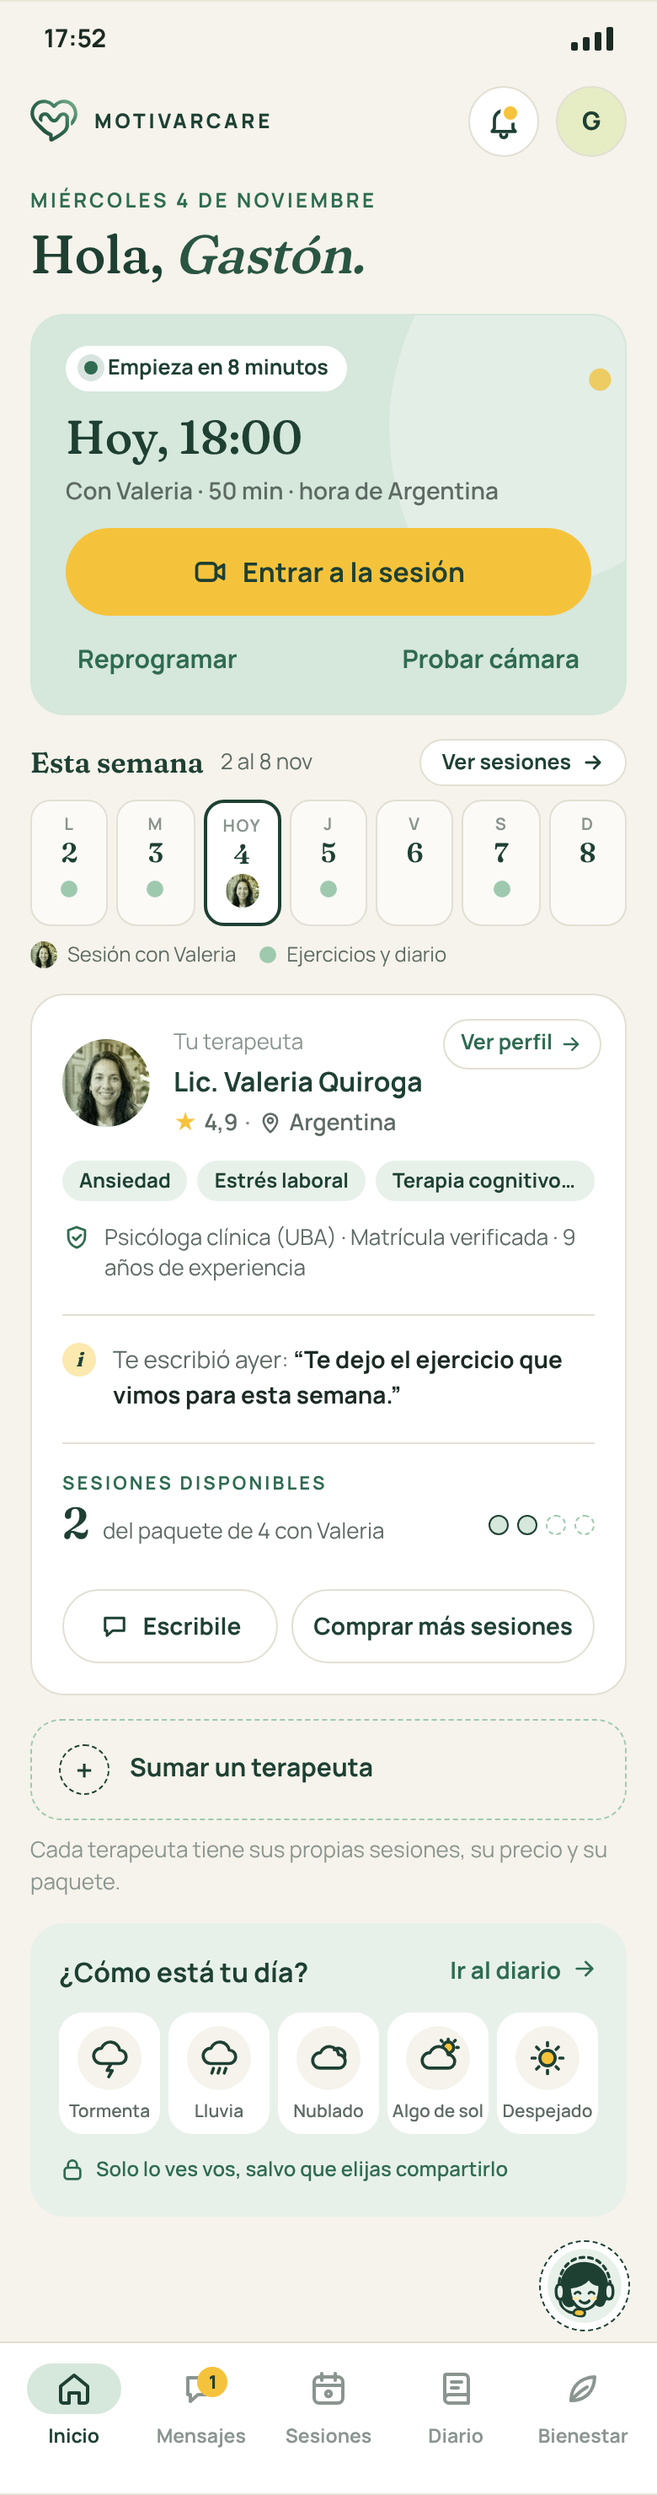
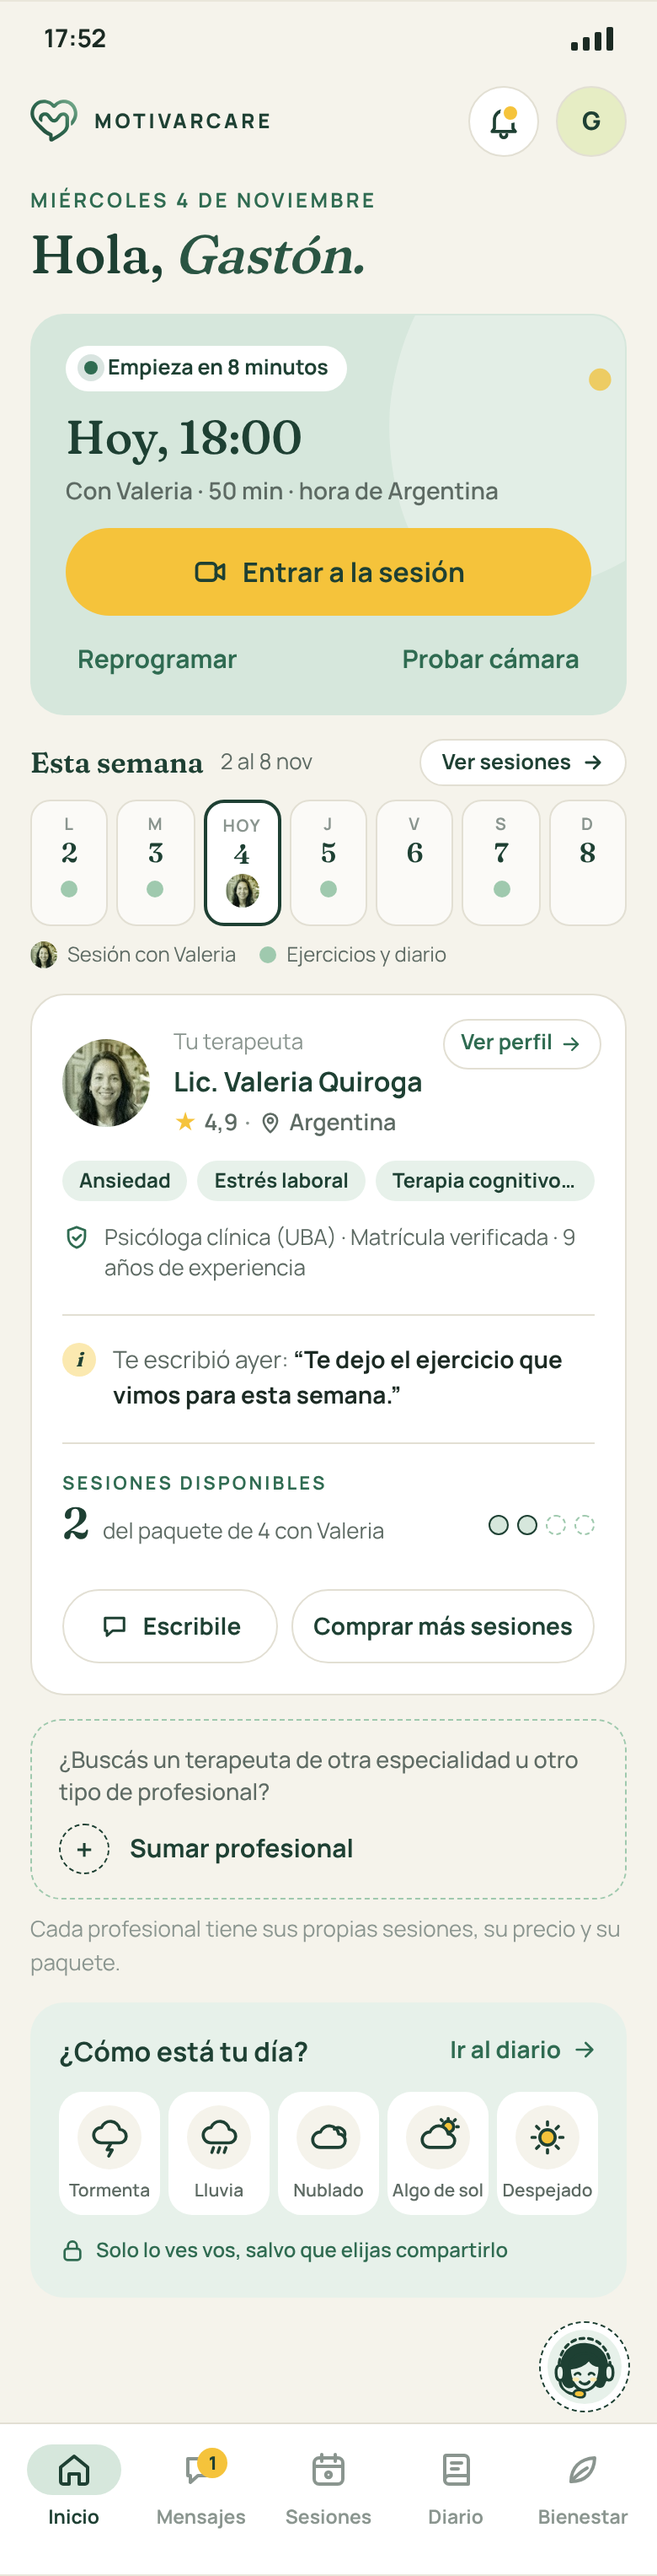
App del usuario: avisos simples en las pastillas y "Sumar profesional"
En el mockup 4, cada pastilla de terapeuta muestra el ícono de sesión con
la cantidad de sesiones futuras reservadas y el ícono del chat con los
mensajes sin leer (Valeria: 1 y 1; Andrés: 1 sesión; Tomás: 1 mensaje).
En los mockups 1, 2 y 4, el recuadro punteado pregunta si busca un
terapeuta de otra especialidad u otro profesional y ofrece "Sumar
profesional".

Claude-Session: https://claude.ai/code/session_01WU1DRuLLvKJwMVuiPWLics

diff --git a/web/public/app-usuario/ronda-2.html b/web/public/app-usuario/ronda-2.html
@@ -551,6 +551,12 @@ ul.lista-simple { padding: 0; }
 .sumar-terapeuta .mas { width: 30px; height: 30px; border-radius: 50%; border: 1.5px dashed var(--bosque); display: grid; place-items: center; font-size: 18px; font-weight: 600; line-height: 1; }
 .sumar-terapeuta p { font-size: 13px; color: var(--tinta-tenue); margin-top: 8px; }
 .tel-sumar .sumar { padding: 14px 16px; }
+
+/* Sumar profesional: pregunta y acción dentro del recuadro punteado */
+.sumar-terapeuta .sumar { flex-direction: column; align-items: flex-start; gap: 10px; }
+.sumar-terapeuta .sumar .pregunta { font-size: 13.5px; font-weight: 500; color: var(--tinta-suave); margin: 0; line-height: 1.4; }
+.sumar-terapeuta .accion { display: inline-flex; align-items: center; gap: 12px; font-weight: 700; font-size: 15px; color: var(--bosque); text-decoration: none; }
+.tab-pro .aviso + .aviso { margin-left: -4px; }
 </style>
 </head>
 <body>
@@ -667,8 +673,11 @@ ul.lista-simple { padding: 0; }
           <div class="botones"><a class="boton contorno"><svg class="ico chico"><use href="#i-chat"/></svg>Escribile</a><a class="boton contorno">Comprar más sesiones</a></div>
         </article>
           <div class="sumar-terapeuta">
-            <a class="sumar"><span class="mas">+</span>Sumar un terapeuta</a>
-            <p>Cada terapeuta tiene sus propias sesiones, su precio y su paquete.</p>
+            <div class="sumar">
+              <p class="pregunta">¿Buscás un terapeuta de otra especialidad u otro tipo de profesional?</p>
+              <a class="accion"><span class="mas">+</span>Sumar profesional</a>
+            </div>
+            <p>Cada profesional tiene sus propias sesiones, su precio y su paquete.</p>
           </div>
         </div>
       </div>
@@ -720,8 +729,11 @@ ul.lista-simple { padding: 0; }
       <div class="botones"><a class="boton contorno"><svg class="ico chico"><use href="#i-chat"/></svg>Escribile</a><a class="boton contorno">Comprar más sesiones</a></div>
     </article>
     <div class="sumar-terapeuta tel-sumar">
-            <a class="sumar"><span class="mas">+</span>Sumar un terapeuta</a>
-            <p>Cada terapeuta tiene sus propias sesiones, su precio y su paquete.</p>
+            <div class="sumar">
+              <p class="pregunta">¿Buscás un terapeuta de otra especialidad u otro tipo de profesional?</p>
+              <a class="accion"><span class="mas">+</span>Sumar profesional</a>
+            </div>
+            <p>Cada profesional tiene sus propias sesiones, su precio y su paquete.</p>
           </div>
     <article class="tarjeta menta clima" style="gap:12px">
             <div class="cab-clima"><div><b>¿Cómo está tu día?</b></div><a class="enlace">Ir al diario<svg class="ico"><use href="#i-flecha"/></svg></a></div>
@@ -822,8 +834,11 @@ ul.lista-simple { padding: 0; }
           <div class="botones"><a class="boton contorno"><svg class="ico chico"><use href="#i-chat"/></svg>Escribile</a><a class="boton contorno">Comprar más sesiones</a></div>
         </article>
           <div class="sumar-terapeuta">
-            <a class="sumar"><span class="mas">+</span>Sumar un terapeuta</a>
-            <p>Cada terapeuta tiene sus propias sesiones, su precio y su paquete.</p>
+            <div class="sumar">
+              <p class="pregunta">¿Buscás un terapeuta de otra especialidad u otro tipo de profesional?</p>
+              <a class="accion"><span class="mas">+</span>Sumar profesional</a>
+            </div>
+            <p>Cada profesional tiene sus propias sesiones, su precio y su paquete.</p>
           </div>
         </div>
       </div>
@@ -879,8 +894,11 @@ ul.lista-simple { padding: 0; }
       <div class="botones"><a class="boton contorno"><svg class="ico chico"><use href="#i-chat"/></svg>Escribile</a><a class="boton contorno">Comprar más sesiones</a></div>
     </article>
     <div class="sumar-terapeuta tel-sumar">
-            <a class="sumar"><span class="mas">+</span>Sumar un terapeuta</a>
-            <p>Cada terapeuta tiene sus propias sesiones, su precio y su paquete.</p>
+            <div class="sumar">
+              <p class="pregunta">¿Buscás un terapeuta de otra especialidad u otro tipo de profesional?</p>
+              <a class="accion"><span class="mas">+</span>Sumar profesional</a>
+            </div>
+            <p>Cada profesional tiene sus propias sesiones, su precio y su paquete.</p>
           </div>
     <article class="tarjeta menta clima" style="gap:12px">
             <div class="cab-clima"><div><b>¿Cómo está tu día?</b></div><a class="enlace">Ir al diario<svg class="ico"><use href="#i-flecha"/></svg></a></div>
@@ -1141,9 +1159,9 @@ ul.lista-simple { padding: 0; }
           <div class="selector-pro">
             <span class="et-sel">Tus terapeutas · 3</span>
             <div class="tabs-pro">
-              <span class="tab-pro activo"><img src="../landing/img/profesionales/valeria-quiroga.jpg" alt=""><span>Valeria</span></span>
-              <span class="tab-pro"><img src="../landing/img/profesionales/andres-salvatierra.jpg" alt=""><span>Andrés</span><span class="aviso ses" title="Sesión el viernes a las 10:00"><svg class="ico"><use href="#i-sesiones"/></svg>Vie 10:00</span></span>
-              <span class="tab-pro"><img src="../landing/img/profesionales/tomas-benitez.jpg" alt=""><span>Tomás</span><span class="aviso msj" title="Mensaje sin leer"><svg class="ico"><use href="#i-chat"/></svg>1</span></span>
+              <span class="tab-pro activo"><img src="../landing/img/profesionales/valeria-quiroga.jpg" alt=""><span>Valeria</span><span class="aviso ses" title="1 sesión reservada"><svg class="ico"><use href="#i-sesiones"/></svg>1</span><span class="aviso msj" title="1 mensaje sin leer"><svg class="ico"><use href="#i-chat"/></svg>1</span></span>
+              <span class="tab-pro"><img src="../landing/img/profesionales/andres-salvatierra.jpg" alt=""><span>Andrés</span><span class="aviso ses" title="1 sesión reservada"><svg class="ico"><use href="#i-sesiones"/></svg>1</span></span>
+              <span class="tab-pro"><img src="../landing/img/profesionales/tomas-benitez.jpg" alt=""><span>Tomás</span><span class="aviso msj" title="1 mensaje sin leer"><svg class="ico"><use href="#i-chat"/></svg>1</span></span>
             </div>
           </div>
           <div class="pro2-cab"><a class="ver-perfil">Ver perfil<svg class="ico"><use href="#i-flecha"/></svg></a>
@@ -1161,8 +1179,11 @@ ul.lista-simple { padding: 0; }
           <div class="botones"><a class="boton contorno"><svg class="ico chico"><use href="#i-chat"/></svg>Escribile</a><a class="boton contorno">Comprar más sesiones</a></div>
         </article>
           <div class="sumar-terapeuta">
-            <a class="sumar"><span class="mas">+</span>Sumar un terapeuta</a>
-            <p>Cada terapeuta tiene sus propias sesiones, su precio y su paquete.</p>
+            <div class="sumar">
+              <p class="pregunta">¿Buscás un terapeuta de otra especialidad u otro tipo de profesional?</p>
+              <a class="accion"><span class="mas">+</span>Sumar profesional</a>
+            </div>
+            <p>Cada profesional tiene sus propias sesiones, su precio y su paquete.</p>
           </div>
         </div>
       </div>
@@ -1202,9 +1223,9 @@ ul.lista-simple { padding: 0; }
       <div class="selector-pro">
             <span class="et-sel">Tus terapeutas · 3</span>
             <div class="tabs-pro">
-              <span class="tab-pro activo"><img src="../landing/img/profesionales/valeria-quiroga.jpg" alt=""><span>Valeria</span></span>
-              <span class="tab-pro"><img src="../landing/img/profesionales/andres-salvatierra.jpg" alt=""><span>Andrés</span><span class="aviso ses" title="Sesión el viernes a las 10:00"><svg class="ico"><use href="#i-sesiones"/></svg>Vie 10:00</span></span>
-              <span class="tab-pro"><img src="../landing/img/profesionales/tomas-benitez.jpg" alt=""><span>Tomás</span><span class="aviso msj" title="Mensaje sin leer"><svg class="ico"><use href="#i-chat"/></svg>1</span></span>
+              <span class="tab-pro activo"><img src="../landing/img/profesionales/valeria-quiroga.jpg" alt=""><span>Valeria</span><span class="aviso ses" title="1 sesión reservada"><svg class="ico"><use href="#i-sesiones"/></svg>1</span><span class="aviso msj" title="1 mensaje sin leer"><svg class="ico"><use href="#i-chat"/></svg>1</span></span>
+              <span class="tab-pro"><img src="../landing/img/profesionales/andres-salvatierra.jpg" alt=""><span>Andrés</span><span class="aviso ses" title="1 sesión reservada"><svg class="ico"><use href="#i-sesiones"/></svg>1</span></span>
+              <span class="tab-pro"><img src="../landing/img/profesionales/tomas-benitez.jpg" alt=""><span>Tomás</span><span class="aviso msj" title="1 mensaje sin leer"><svg class="ico"><use href="#i-chat"/></svg>1</span></span>
             </div>
           </div>
       <div class="pro2-cab"><a class="ver-perfil">Ver perfil<svg class="ico"><use href="#i-flecha"/></svg></a>
@@ -1222,8 +1243,11 @@ ul.lista-simple { padding: 0; }
       <div class="botones"><a class="boton contorno"><svg class="ico chico"><use href="#i-chat"/></svg>Escribile</a><a class="boton contorno">Comprar más sesiones</a></div>
     </article>
     <div class="sumar-terapeuta tel-sumar">
-            <a class="sumar"><span class="mas">+</span>Sumar un terapeuta</a>
-            <p>Cada terapeuta tiene sus propias sesiones, su precio y su paquete.</p>
+            <div class="sumar">
+              <p class="pregunta">¿Buscás un terapeuta de otra especialidad u otro tipo de profesional?</p>
+              <a class="accion"><span class="mas">+</span>Sumar profesional</a>
+            </div>
+            <p>Cada profesional tiene sus propias sesiones, su precio y su paquete.</p>
           </div>
     <article class="tarjeta menta clima" style="gap:12px">
             <div class="cab-clima"><div><b>¿Cómo está tu día?</b></div><a class="enlace">Ir al diario<svg class="ico"><use href="#i-flecha"/></svg></a></div>

diff --git a/06-app-usuario/historial/ronda-2.md b/06-app-usuario/historial/ronda-2.md
@@ -81,8 +81,8 @@ Cada mockup se hace en escritorio (1440 × 1024) y en teléfono (390 de ancho). 
     <ul>
       <li>La tarjeta verde muestra la sesión más próxima, sea con quien sea.</li>
       <li>La agenda de la semana reúne las sesiones con todos, cada profesional con su foto y su color.</li>
-      <li>La tarjeta de la derecha suma un selector con la foto de cada terapeuta: primero el principal, y avisos de sesión próxima o mensaje en los demás.</li>
-      <li>Debajo, "Sumar un terapeuta".</li>
+      <li>La tarjeta de la derecha suma un selector con la foto de cada terapeuta: primero el principal, cada uno con sus sesiones reservadas y sus mensajes sin leer.</li>
+      <li>Debajo, "Sumar profesional".</li>
     </ul>
     <a class="boton-ver" href="/app-usuario/ronda-2.html#r2-4-escritorio">Ver en tamaño real →</a>
   </div>
@@ -170,7 +170,7 @@ Combina la familia 2 (la agenda y la sesión mandan) con la posibilidad de traba
 - **Saludo:** "Esta semana tenés 3 sesiones con 3 terapeutas. La próxima, con Valeria, empieza en unos minutos."
 - **Tarjeta verde:** la sesión más próxima, sea con quien sea. Es igual a la del mockup 1, con el nombre del profesional de esa sesión.
 - **Agenda de la semana:** reúne las sesiones con todos los profesionales, cada uno con su foto y un color propio (salvia para Valeria, lima para Andrés y amarillo suave para Tomás, los colores categóricos del design system). En el teléfono, cada día lleva la foto del profesional con quien hay sesión.
-- **Tarjeta del terapeuta con selector:** arriba, "Tus terapeutas · 3" y una pastilla con la foto y el nombre de cada uno. **El terapeuta principal va siempre primero** y es el que se abre por defecto; después van los demás. Se ve uno por vez, con los mismos datos y el mismo orden que en el mockup 1. Si otro terapeuta tiene una sesión próxima o dejó un mensaje sin leer, su pastilla lo avisa: "Vie 10:00" con el ícono del calendario (Andrés) o el ícono del chat con la cantidad de mensajes, en amarillo (Tomás). Sobre el nombre del principal dice "Tu terapeuta". Las sesiones disponibles, "Escribile" y "Comprar más sesiones" son siempre del profesional elegido, como pide la regla de que nada se paga sin un profesional definido.
+- **Tarjeta del terapeuta con selector:** arriba, "Tus terapeutas · 3" y una pastilla con la foto y el nombre de cada uno. **El terapeuta principal va siempre primero** y es el que se abre por defecto; después van los demás. Se ve uno por vez, con los mismos datos y el mismo orden que en el mockup 1. Cada pastilla avisa con dos indicadores simples: el ícono de sesión con la cantidad de sesiones futuras reservadas (en menta) y el ícono del chat con la cantidad de mensajes sin leer (en amarillo). En el ejemplo, Valeria tiene 1 sesión (la de hoy) y 1 mensaje, Andrés 1 sesión y Tomás 1 mensaje. Sobre el nombre del principal dice "Tu terapeuta". Las sesiones disponibles, "Escribile" y "Comprar más sesiones" son siempre del profesional elegido, como pide la regla de que nada se paga sin un profesional definido.
 - **Entre sesiones:** igual que en el mockup 1.
 
 ## Decisiones de la ronda
@@ -187,6 +187,6 @@ En los mockups:
 ### Tu terapeuta, otros terapeutas y profesionales (13/11)
 
 - **"Tu terapeuta"** es el profesional principal del usuario, con quien se alienta a sostener el tratamiento. Reemplaza a "Tu profesional" en todos los mockups.
-- El usuario puede **contratar sesiones (o paquetes) con otros terapeutas**. Debajo de la tarjeta del terapeuta hay un espacio punteado, **"Sumar un terapeuta"**, con la aclaración "Cada terapeuta tiene sus propias sesiones, su precio y su paquete". Está en los mockups 1, 2 y 4.
-- Con más de un terapeuta, **el principal va siempre primero**, y las pastillas de los demás avisan si hay una sesión próxima o un mensaje sin leer.
+- El usuario puede **contratar sesiones (o paquetes) con otros terapeutas o profesionales**. Debajo de la tarjeta del terapeuta hay un espacio punteado con la pregunta "¿Buscás un terapeuta de otra especialidad u otro tipo de profesional?" y la acción **"Sumar profesional"** (porque puede sumar un terapeuta de otra especialidad o, más adelante, otro tipo de profesional, como un nutricionista). Debajo, la aclaración "Cada profesional tiene sus propias sesiones, su precio y su paquete". Está en los mockups 1, 2 y 4.
+- Con más de un terapeuta, **el principal va siempre primero**. Cada pastilla avisa con el ícono de sesión y la cantidad de sesiones futuras reservadas, y con el ícono del chat y la cantidad de mensajes sin leer.
 - **En esta fase solo hay psicólogos.** "Profesionales" queda como término general para las categorías que se sumen más adelante (por ejemplo, nutricionistas). En el mockup 3, los textos pasan a "Encontrá a tu terapeuta", "Elegí a tu terapeuta" y "Ver terapeutas".
